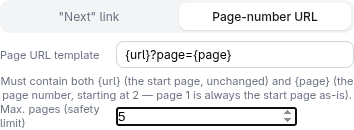
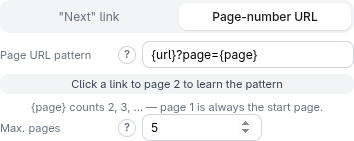
docs(pagination): document the derived page-number pattern, Advanced placement and the {url} rule (#405)

diff --git a/e2e/screenshots/scenarios/pagination.js b/e2e/screenshots/scenarios/pagination.js
@@ -1,5 +1,26 @@
-// Screenshot for docs/user/pagination.md — the Pagination block in Settings.
+// Screenshots for docs/user/pagination.md — the Pagination block in Settings: the
+// proposal learned from a clicked "Next »" link (paginated-listing fixture), and the
+// page-number kind with its pattern filled in.
 module.exports = [
+  {
+    id: 'pagination-suggestion',
+    fixture: 'paginated-listing',
+    async run(s) {
+      const { popupPage, fixturePage } = s;
+      await s.waitForIdle();
+      await s.addFlatField('Title', 'li.item >> nth=0');
+      await popupPage.click('#settings-section-toggle');
+      await popupPage.check('#toggle-pagination');
+      await popupPage.click('#btn-pick-pagination-next-link');
+      await fixturePage.bringToFront();
+      await fixturePage.waitForTimeout(150);
+      await fixturePage.click('a.next');
+      await s.waitForIdle();
+      await popupPage.waitForSelector('#pagination-suggestion:not(.hidden)');
+      await popupPage.locator('#pagination-toggle-row').scrollIntoViewIfNeeded();
+      await s.shot('pagination-suggestion', '#pagination-config');
+    },
+  },
   {
     id: 'pagination-settings',
     fixture: 'speisekarte',

diff --git a/extension/popup/popup.css b/extension/popup/popup.css
@@ -690,6 +690,10 @@ body {
   flex: 1; min-width: 0; border: 1px solid var(--color-border-input); border-radius: var(--radius-md);
   padding: 5px 8px; font-size: 12px; font-family: inherit; outline: none;
 }
+.output-settings-row input[type="number"] {
+  flex: 1 1 60px; min-width: 0; max-width: 120px; border: 1px solid var(--color-border-input); border-radius: var(--radius-md);
+  padding: 5px 8px; font-size: 12px; font-family: inherit; outline: none;
+}
 .output-settings-row input[type="text"]:focus { border-color: var(--color-primary); box-shadow: var(--focus-ring); }
 .output-settings-row textarea {
   flex: 1; min-width: 0; border: 1px solid var(--color-border-input); border-radius: var(--radius-md);

diff --git a/CLAUDE.md b/CLAUDE.md
@@ -77,6 +77,7 @@ docs/
 - **Dark mode + visual modernization pass** (Issue #140): builds directly on #139's token groundwork — every color/overlay/shadow token now lives in a light/dark pair instead of one fixed set. `:root` carries the light defaults; `@media (prefers-color-scheme: dark) { :root:not([data-theme]) { ... } }` redefines them automatically when the OS prefers dark and the user hasn't made an explicit choice; an explicit `html[data-theme="light"|"dark"]` override (see `shared/theme.js` below) always wins over both, and needs no rule of its own for "light" specifically since the media query already stays out of its way when the attribute is present. `color-scheme: light dark` on `:root` (narrowed to a single value by the two explicit-override rules) gives native form controls — checkbox/select-popup chrome, and any `input`/`textarea` with no explicit background of its own, like `#input-additional-urls` — a correct dark rendering for free. **Contrast audit** (called for by the issue): every status color already read from #139's token set, so brightening them for dark backgrounds was enough — no per-rule changes needed for `.robots-txt-allowed`/`.preview-summary.warn`/toast variants/etc. One real bug the audit *did* catch: several "white text on a colored background" rules (`.btn-primary`, `.toast`, picked chips) used `var(--color-surface)` for that text color — correct by coincidence in light mode (surface happens to be white) but flips to near-black in dark mode. A new theme-agnostic `--color-on-accent` token (always a light color regardless of theme, since the accent backgrounds themselves stay readable with light text in both) replaces `--color-surface` at every one of those call sites. **Manual toggle**: a new `extension/shared/theme.js` mirrors `i18n.js`'s `getStoredLanguage`/`setLanguage` pattern exactly (`chrome.storage.local`), with one difference — "follow the OS" is a real third state, represented as `null` (not a storable `'system'` string) throughout the module. `#theme-toggle` next to the language selector cycles system → light → dark → system on click (`SFTheme.cycleTheme`), a single compact icon button chosen over a dropdown for lack of panel-width room next to the existing language `<select>`. **Modernization** (requested alongside the issue, not part of its own scope): the radius scale is nudged up again (6/8/10/14, from #139's 4/6/8/10) for a softer feel; `--transition-fast` switches from a plain linear ease to the "standard" `cubic-bezier(0.4, 0, 0.2, 1)` easing curve; a new `--glow-primary` gives `.btn-primary:hover` a soft colored glow instead of a flat color swap; the old flat `--shadow-sm`/`--shadow-md` pair is replaced by a graded `--elevation-1/2/3` scale (layered shadow pairs) for more "floating" depth on the mode-toggle active pill and modal; the `.mode-toggle`/`.mode-btn` segmented controls (mode/engine/notify-method — three markup instances) gain an animated sliding `.mode-toggle-thumb` behind the active button instead of each button just recoloring itself in place, positioned via `popup.js`'s `syncModeToggleThumbs()` (JS, not CSS-only, since it depends on the active button's actual rendered offset/width) — called at the end of every `render()` and on a rAF-throttled `window.resize` listener, since the side panel is user-resizable; `.engine-section`/`.output-settings` get an outlined "card" (border only, no fill, since their own children already use `--color-surface-subtle`) to break up the idle screen's otherwise undifferentiated list of settings — the mode-specific sections are deliberately left unboxed since they're the primary content being edited and already carry their own row-level visual treatment; every scrollable container from #138/#122 gets a slim `::-webkit-scrollbar` (Chromium-only, matching the extension's own supported browser range). Deliberately out of scope, same reasoning as #139: turning text-label buttons into icon+label.
 - **esbuild bundling; "Load unpacked" points at `extension/dist/`** (Issue #389): the extension is no longer loaded straight from its source folder. `extension/build.js` (`npm run build`, `npm run build:watch`, plus `--channel release` and `--outdir <dir>` for `install/build-bundle.sh`) bundles four entry points — `popup/popup.js` (side panel), `content/content-script.js` (isolated world, every frame; `shared/logger.js` is bundled in, so the manifest no longer lists it), `content/api-capture.js` (the `"world": "MAIN"` recorder, `document_start`) and `background/service-worker.js` — as `iife` for Chromium 114+ into `dist/<same relative path>`, source maps beside them, and copies the static files (`manifest.json`, `popup/popup.html`, `popup/popup.css`, `popup/screens/*.html`) to the same relative paths, so `chrome.runtime.getURL('popup/screens/idle.html')` and the manifest paths are unchanged. `dist/` is git-ignored; Jest, `tsc` and the e2e harness treat it as build output (`modulePathIgnorePatterns`, `exclude`). **What the bundler replaced:** every module used to carry dual-environment boilerplate so the same file ran as a classic `<script>` (shared global scope) and under Jest (CommonJS) — an IIFE assigning one `self.SFXxx` global, a `typeof require !== 'undefined' ? require(...) : self.SFXxx` shim per import, a `typeof module`/`self` export footer, a 56-line `<script>` list in `popup.html`, and `classic-script-loading.test.js` guarding the top-level-name-collision bug class that came with it. All of that is gone: a module is now plain CommonJS (`const { x } = require('./y')`, `module.exports = { ... }`), `popup.html` has one `<script src="popup.js">`, and Jest keeps running the sources directly. No behavior change. **The three explicit replacements for what used to be environment sniffing:** `i18n/i18n.js` `require`s the three dictionaries statically (inlined into the popup bundle, loaded identically in Jest — no fetch, no `chrome.runtime.getURL`); `popup.js`'s `loadScreenPartial` and `content/api-capture.js`'s fetch/XHR patching check `process.env.NODE_ENV === 'test'` (Jest sets it, the build `define`s it to `"production"`, so the code is dead-branch-free in the bundle and `process` never exists at runtime — never reference `process` for anything else). **Release channel** (Issue #352): `shared/build-config.js` derives `CHANNEL` from `process.env.SF_CHANNEL`, which `build.js` always `define`s (`"development"` by default, `"release"` for `--channel release`); `install/build-bundle.sh` builds the release channel into a temp dir (`npm ci` + `node build.js --channel release --outdir …`, then ships the bundle without `.map` files) instead of `sed`-rewriting a source line, and `build.js` fails the build if a release build did not actually produce the release constant. `shared/companion-url-policy.test.js` builds the real module with each channel to prove it. **Consequences for contributors:** after editing extension code run `npm run build` (or leave `build:watch` running) and reload the extension at `chrome://extensions`; there are no page-level globals any more (`self.SFXxx`, `SFTheme`, a popup's `_state`) — a real-browser check that needs to reach into the popup must go through the DOM, `chrome.storage` or Playwright routes, not `page.evaluate(() => SFFoo…)`; a new module needs no `popup.html` edit, just a `require`. TypeScript conversion stays a separate, file-by-file follow-up.
 - **Monitoring / Hardening in plain language** (Issue #399, UX audit finding 4): the Monitoring section is a "set and forget" feature for scripts that run repeatedly and unattended, but nothing said so, the five hardening checks were bare labels, and the Warning/Error toggle was explained only by a hover tooltip in terms of exit codes. **Labels and help only — no change to the wire format or the generated scripts** (the wire severities stay `Warning`/`Error`; only what the buttons say changed). A one-sentence **intro** (`idle.monitoringIntro`: only useful if you run the script again and again, e.g. every night); a **"Checks after every run"** heading whose "?" (`help.hardening.severity`) explains severity in plain words — **"Warn me"** (the run finishes, a message is printed) vs. **"Stop the run"** (marked as failed so a scheduler/monitor notices; exit code 2, an unexpected crash is 1) — which replaces the four hover-only `…SeverityWarning/ErrorTitle` tooltips (removed, as is the `title` attribute; the dynamic null-rate row never had one); a **"?" popover per check** (`help.hardening.noResult|nullRate|baseline|blocking|requiredFields`, one sentence of purpose plus an example) on the check's own toggle/heading; **thresholds as sentences** — "Trigger if there are [20] % fewer rows than in the last run" (static, `.hardening-sentence`) and, in each dynamic null-rate row, "[Preis ▾] is empty in more than [50] % of the rows" (`idle.hardeningNullRateMiddle/After`; the row now wraps), with the existing defaults (20 % / 50 %) unchanged; the blocking check's two rarely needed signals (**min. response length** as "Page shorter than [ ] bytes (optional)" and **block phrases**) sit under an **Advanced** disclosure (`<details data-advanced="hardening-blocking">`, the #396 component, collapsed by default and remembered) with one popover (`help.hardening.blockingAdvanced`: "1000 bytes is about one paragraph", phrases such as "Access Denied"); the blocking toggle reads "Check whether the site blocks the script". **"Recommended checks"**: `popup/hardening-presets.js` (pure, `@ts-check`) `applyRecommendedHardening(hardening, fieldNames)` → `{ hardening, applied, needsFields }` switches on **"empty result" as "Warn me"** and **"required field" for the FIRST field only, as "Warn me"** — the required-fields check *drops rows* from the output, so it is only suggested for the first field (usually the name/ID that makes a row meaningful), never for all of them (that would silently drop rows whose optional fields are legitimately empty); it **only ever adds** — a check already on, or fields already listed for "required", are left exactly as they are, so a second click changes nothing — and without fields only "empty result" is set and the note says why the rest is missing. Wired in `settings-panel-ui.js` (`#btn-hardening-recommended`, a note `#hardening-recommended-note` saying what was switched on; the button has its own "?" `help.hardening.recommended`); the baseline-drop check was deliberately *not* added to the preset (the issue names "empty result" + required fields). Covered by `hardening-presets.test.js` (the preset incl. the resulting wire checks through `buildHardeningConfig`), `hardening-presets-ui.test.js` (the button, the note, the labels, sentences and the Advanced disclosure against the real `idle.html`) and `e2e/examples/issue-399-hardening-plain-language-check.js` (intro/heading/severity wording, one popover per check with an example, the preset, **the real `/generate` request captured from the network carries exactly `noResult` + `requiredFields[first field]` as warnings**, Advanced collapsed, de/es, 280/320/400 px).
+- **Pagination helpers: derived page-number template, Advanced placement** (Issue #405, UX audit finding 10): the "Page-number URL" kind needed a template with `{url}`/`{page}` and so knowledge of how the site's page URLs look; the "next link" selector had a picker but also a typed field; "Discover additional start URLs" asked for a URL and a selector for a feature most users never need. **Pure derivation** (`popup/pagination-template.js`, `@ts-check`): `detectPageTemplate({ currentUrl, linkHref })` → `{ template, style, usesStartUrl, example }` or `null`. With a clicked link's resolved href (`resolveLinkHref`) the pattern is learned from how it differs from the start URL — **query style**: the one parameter that is the next number (2 when the start URL has none, but then only a conventional name: `page`/`p`/`pg`/`paged`/`pagenum`/`pagenumber`/`pageno`/`seite`/`pagina`/`currentpage`, so `?cat=2` is not page 2; already present → its number + 1) while every other query parameter is identical → `{url}?page={page}` / `{url}&page={page}`, or the start URL with the number replaced by `{page}` when it already has one; **path style**: `/page/2/`, `/seite/2`, `/pagina/2`, `/p/2` appended to the start path (`{url}page/{page}/`) or replacing the start URL's own number. Without a link (or a link that shows nothing) only a **start URL that already says page 1** is recognised (`?page=1`, `/page/1/`; `page=2` or `0` is not — pages 2.. would be wrong). Deliberately conservative: zero-based counters, offsets, several plausible parameters, another host/path, a `#fragment` in the way → `null`, never a guess. The proposal is only ever **applied by a button**, and `proposalAlreadyApplied` keeps the banner away once it is. **`{url}` is now optional in the companion** (`ScrapingPlanValidator.ValidatePageNumberUrlTemplate(urlTemplate, singleStartPage)`, the one companion change; wire format and generated scripts unchanged — the script's `.format(url=…, page=…)` already tolerated it): a start URL that already carries `?page=1` can't be expressed with `{url}` (the page number can't be overridden by appending), so `https://site/list?page={page}` is valid for a **single start page** — but with **several** (`Url` + `AdditionalUrls`, or `DiscoveredUrls`) `{url}` stays required, since a template without it would request the same page N for every start page; the extension mirrors the rule (`currentProposal` in `pagination-ui.js` drops a proposal without `{url}` while additional start URLs exist or discovery is on). **UI** (`popup/pagination-ui.js`, called from `idle-screen-ui.js`/`popup.js`): a proposal **banner** above the kind toggle (`#pagination-suggestion`: "Looks like page numbers are in the URL. Use this pattern?", the template, the example for page 2, **Use this pattern** → kind `pageNumber` + template); the link's address is stored as UI-only `pagination.linkHref` inside the pagination draft (persisted with it, never sent — `buildPaginationConfig` ignores it, asserted by a test), fed by **two pickers**: the existing "next link" pick (`message.attributes.href` — message-router and session-restore both fill it) and the new `selectionKind: 'paginationPageLink'` ("Click a link to page 2 to learn the pattern", stores only the address, warns with `toast.paginationNotALink` for an element without an `href`; `resolveLinkHref('')` is `''`, not the page itself). The "next" link's **typed selector** is an editable detail under a remembered **Advanced** (`pagination-next-link`) with the picked selector shown as a chip; the URL pattern and **Max. pages** get "?" popovers (`help.pagination.urlTemplate`/`maxPages`: what `{page}`/`{url}` are, page 1 is the start page, `{url}` required with several start pages / the safety limit and its earlier stops), replacing the long hint paragraph. **"Discover additional start URLs"** moved, whole, under **Advanced: find start pages automatically** (`#discovered-urls-advanced`, `data-advanced="discovered-urls"`, hidden for API/Combined/Blocks, opened once when the option is already on so a returning user's setting is never tucked away), keeping its pickers, with a one-sentence hint and a popover (`help.discoveredUrls.overview`). `.output-settings-row input[type="number"]` got a width cap (the rows' own number inputs had none and overflowed a 280 px panel once a help host sat in the row). Covered by `pagination-template.test.js` (~40 cases across URL shapes, the round trip through `buildPaginationConfig`), `pagination-ui.test.js` (banner, use, both pickers, the several-start-pages rule, Advanced placement, session restore), .NET `ScrapingPlanValidatorTests` + `PaginationEndToEndTests` (a template without `{url}` through a real run) and `e2e/examples/issue-405-pagination-helpers-check.js` (the new `test-pages/paginated-listing` fixture with `?page=N` and `/blog/page/N/` lists: **real Generate runs scraping all nine items for each of the three start shapes**, popovers, Advanced, de, 280/320/400 px). Found on the way, **not fixed here**: the service worker stores every pick as `pendingSelector` for a closed panel and that write can land *after* the open panel's own `remove('pendingSelector')` (message-router), so a later popup reload occasionally pops a stale field modal — the check clears it before reloading.
 - **Login flow and browser actions in plain language** (Issue #403, UX audit finding 8): a login is built from the generic WaitFor/Fill/Click/Scroll actions, with no explanation of what it consists of and fields mixing units and concepts. **Labels, a starter and help only — the wire format and the generated scripts are unchanged.** **Overview**: the "Browser actions" title carries a "?" (`help.browserActions.overview`: a login is fill user name → fill password → click the button → wait until the signed-in page appears; steps run in order, before data is read), and the intro line points at the starter. **"Login form (4 steps)" starter** (`#btn-add-login-flow`, pure `popup/login-flow.js` `addLoginFlow`, rendered by `browser-actions-ui.js`): *appends* (never replaces) Fill (user name, `SITE_USERNAME`), Fill (password, `SITE_PASSWORD` — the #397 naming), Click (login button) and WaitFor (until logged in, **10 s** instead of the generic 5 s since login pages are slow); a second click gets `…_2` variable names (`uniqueEnvName`) so two actions never read the same variable. Each starter action carries a **UI-only `role`** (`user`/`password`/`submit`/`loggedIn`, `SFDraft.BrowserActionRole`): its card is titled "Fill in the user name"/"Click the login button"/…, the pick button says what to pick ("Select the user name field"), the env-var and test-value labels name the user name/password — and `serializeBrowserActions` picks the wire fields per kind, so **a role never reaches the request body** (a Jest test asserts the exact wire list; `config-import.js` restores no role, a loaded login shows the plain kind labels). `#login-flow-hint` ("Now click the four elements…") shows while any starter action still lacks its element. **Plain units**: times are typed in **seconds** and stored/sent as milliseconds (`msToSecondsText`/`secondsTextToMs` in `login-flow.js`: `0.25` ↔ 250 ms, a decimal comma works in the helper — a `type=number` input takes the browser's own decimal separator —, junk/negative/zero-where-impossible falls back to the old default, `allowZero` for pauses), with the default as placeholder: "Wait at most (seconds)", "Pause after each round/click (seconds)"; the BrowserDiscoverySource action editor in `api-config-ui.js` (Issue #216) shares the labels and was converted the same way, the old `timeoutLabel`/`waitAfterMsLabel` keys are gone. "Max. rounds" has a "?" (`help.browserActions.maxRounds`: how many times to scroll/click "Load more" before stopping). **Advanced** (the #396 component, one remembered section per kind: `browser-action-click`, `browser-action-scroll`): a Click's target (first/last/all) and its pause, a Scroll's container, "Load more" button and scroll step (now "pixels"); rounds and the pause stay visible. `createAdvancedDisclosure` now applies the remembered open state **synchronously** at creation, because a card built by a re-render must not collapse and reopen (the `toggle` event is async: a re-render within the same frame as the click can still lose the very first open — not reachable by a human). **Persistent session**: the visible hint is one sentence plus the **cookie warning** ("…the saved session file holds live cookies — treat it like a password"); the rest (never share/commit, expiry fails the run, delete the file to log in again) moved into `help.browserActions.persistentSession`. Small CSS fix found on the way: `.browser-action-field-row select` could overflow a 280 px panel (the click-target `<select>`). Covered by `login-flow.test.js` (starter, unique names, wire equality, seconds↔ms, the wired-up popup: four role-named cards, the hint, a real `/generate` body, Advanced contents), the adapted `browser-actions-ui.test.js`/`click-target.test.js`, and `e2e/examples/issue-403-login-starter-check.js` (fixture `login-flow`: the starter, picking the four elements on the page, a **real Generate that logs in with the typed test values and scrapes the dashboard balance**, Advanced collapsed, de, 280/320/400 px); the #267 check was adapted to open "Advanced" and use seconds.
 - **Custom request headers: a picker instead of an empty row** (Issue #402, UX audit finding 7): "Send custom request headers" used to open a free-text header-name field, a fixed-value/environment-variable switch and a hint wall — a non-developer had to already know `Accept-Language`, `Referer` or `X-Api-Key` exist, and that a secret must not be a fixed value. Now an **"Add a header…" `<select>`** (`#select-add-request-header`, replaces the `+ Header` button) offers the common headers and **"Other header (type the name)…"**; picking one appends a **complete** row. **Wire format untouched** — a row is still `{ name, kind, value }`, `buildRequestHeadersConfig` emits the same `{name, value}` / `{name, environmentVariableName}` list, and a Jest test asserts a picked preset and the same hand-typed header produce identical wire output. `popup/request-header-presets.js` (pure, `@ts-check`): `REQUEST_HEADER_PRESETS` — Accept-Language, Referer, User-Agent (fixed value, with an example value prefilled so the row is valid at once) and Cookie (`SITE_COOKIE`), Authorization (`AUTH_TOKEN`), X-Api-Key (`API_KEY`) (**secrets default to an environment variable** with a suggested valid variable name) —, `OTHER_PRESET_ID`, `presetById`/`presetForName` (case-insensitive: a hand-typed `accept-language` still gets its description), `rowFromPreset`, `isSecretHeaderName` (the exact well-known names plus anything containing token/secret/passw/auth/api-key or ending in `-key`, so a custom `X-Auth-Token` is treated like `Authorization`) and `suggestHeaderEnvName` (`X-Auth-Token` → `X_AUTH_TOKEN`, a preset keeps its own, a leading digit is prefixed `HEADER_`); `request-headers.js` gains `appendHeaderRow(state, row)`. **UI** (`request-headers-ui.js`): enabling the section no longer adds an empty row — the picker is the way in (the picker's "?" is `help.requestHeaders.picker`, reusing the shared help component; `help.requestHeaders.headers` and the shared `help.envVar.what` note are unchanged). A picked header shows its **description under the row** (`requestHeaderPresets.<id>.desc`, plain language, e.g. "Asks the site for its pages in this language…"), and a **credential-looking header held as a fixed value** shows a **warning** — "This looks like a secret. As a fixed value it would be written into the script in plain text." — with a **"Use environment variable"** button that switches the row to an environment variable and fills a suggested name. The warning never blocks anything (the user may have a reason). Both notes live in one `.request-header-notes` container per row that `syncRow` refreshes in place (compared by a `dataset.signature`), so renaming a header never rebuilds the row or steals the focus (the #226 regression); the picker's options are rebuilt only when their labels or the set of already-used headers change, and **a header already in the list is disabled in the picker** (the companion rejects the same header twice). Header names are matched, never forced: the name stays freely editable in the row. i18n: `requestHeaderPresets.*` (label + desc per preset, `other.label`) plus `idle.requestHeaderPickerPlaceholder/SecretWarning/SwitchToEnv` in de/en/es; the unused `idle.requestHeadersAddBtn` is gone. Covered by `request-header-presets.test.js` (preset logic, the secret heuristic, wire equality, and the wired-up popup: picker contents, complete rows, env-var default, used header disabled, warning + one-click fix, renaming keeping the inputs), the adapted `request-headers.test.js`, and `e2e/examples/issue-402-request-headers-picker-check.js` (fixture `request-headers`: the picker end to end incl. a **real run that sends the picked headers**, the warning and its fix, the "?" popover, de, 280/320/400 px; the older #226/#396/#397/#401 checks were adapted to pick a row instead of expecting an empty one).
 - **Pattern helper for "Regex extract" and format guess for "Convert to date"** (Issue #400, UX audit findings 5 and 12): nearly every price/number/ID field needs a regular expression and non-programmers can't write one; the date format mini-template (`{dd}.{mm}.{yyyy}`) is just as foreign. Both transform kinds keep their live preview (Issue #143) but now get helpers that lead to a *working* value. `popup/transform-helpers.js` (pure, `@ts-check`): **recipes** — `RECIPES`, `buildRecipe(id, args)` → `{ pattern, group }` (null while the text(s) it asks for are missing), `previewRecipe(raw, recipe)` (through the editor's own `applyTransformsPreview`, so the helper and the live preview can never disagree), `escapeRegexLiteral` (every metacharacter of the user's text is escaped, so `.` `(` `$` `+` `|` `\` are literal). Recipes: *First number* `-?\d+(?:[.,]\d+)*` (group 0), *First run of digits* `\d+` (0) — the issue's "All digits" is read as "the first run of digits", since a Regex-extract step yields one piece and "all digits joined" would be a find/replace —, *Text after …* `<a>\s*(.+)` (1), *Text before …* `(.+?)\s*<a>` (1), *Text between … and …* `<a>\s*(.+?)\s*<b>` (1), *Text inside brackets* (a choice of `( ) [ ] { } < >`) `\(([^)]*)\)` etc. (1). **Only constructs .NET's `Regex` (the companion's validation) and Python's `re` (the script) read identically** — groups, `\d`, `\s`, `[^…]`, lazy `+?`; no look-behind, no named groups, no inline flags (a Jest test asserts it). That is *proven*, not assumed: `transform-helpers.test.js` runs the same ~40-case table through the preview **and through `python3` `re.search`** (skipped when Python isn't installed), and `RegexRecipeEndToEndTests.cs` takes representative generated patterns through `ScrapingPlanValidator` (.NET) and a real generated script (Python). **Date inference**: `inferDateFormat(raw)` → `{ format, alternatives }` or `null` — `28.08.2026`, `1.9.2026`, `2026-08-28`, `2026/8/5`, `28-08-2026`, `08/28/2026`, `20260828`; day/month order is decided by values above 12, dotted dates are day-first, and a genuinely ambiguous `03/04/2026` defaults to day-first and lists the other reading; every guess is re-checked with `toDatePreview`, so a guess always converts the value. **Month names (`28 Aug 2026`) are not supported** — the format has no month-name token and adding one would change the runtime helper and the companion's validation (outside this issue); a date with text around it gets no guess. **UI** (`transform-helpers-ui.js`, called from `field-transforms-ui.js`, so all three modes' transform modals get it): a Regex-extract row gets a *Pattern helper* button and a "?" popover (`help.transforms.regex`); the button opens a panel (`li.transform-helper-panel`, right under the row) with a recipe select, only the text input(s) that recipe needs, a **live result on the real picked value** and *Use this pattern*, which writes pattern + group into the transform exactly as if typed. The panel is **stateless as far as the transform is concerned** — recipe and texts live only in its DOM, the transform objects (sent to the companion as they are) never carry helper state, and typing in the panel never re-renders the list (it would steal the focus). A "Convert to date" row gets a "?" popover (`help.transforms.dateFormat`) and, on selecting that kind, **the guessed format is pre-selected**, with a hint line ("Format detected from your value: …" / "(could also be …)" / "Your value looks like …" / a no-guess example). The helpers read the picked value **lazily** through a `getRawValue` getter now passed to `renderTransformList`/`wireTransformList` (flat: `resolveFlatRawValue`, container: `resolveExtendedRawValue` — the previously inline preview logic, now shared —, API: `pendingRawText`). Plain labels: the pattern input's placeholder is "Pattern (advanced)", the group input's "Part to keep (0 = whole match)". `help-popover-ui.js` now creates a help panel as an `<li>` when its anchor sits in a `<ul>`/`<ol>`. Covered by `transform-helpers.test.js`, `transform-helpers-ui.test.js` (panel open/close, per-recipe inputs, live result, `Use`, metacharacters, several rows, the date pre-selection and hints) and `e2e/examples/issue-400-transform-helpers-check.js` (the new `test-pages/transform-helpers` fixture: a price via two chained recipes, an article number with a literal dot, a date whose format is guessed, a **real Generate** whose data preview holds `12,99 / 4711 / 2026-08-28`, the popovers, de/es, 280/320/400 px).

diff --git a/docs/user/pagination.md b/docs/user/pagination.md
@@ -8,31 +8,50 @@ Turn on **Enable pagination** and choose how the next page is found.
 
 ## "Next" link
 
-Pick the "next page" link by clicking it, or type a CSS selector such as
-`a.next`. The script follows that link's address page after page, until the
-link is gone, a page yields no results, or **Max. pages (safety limit)** is
-reached.
+Click **Select the "Next" link**, then click the "next page" link on the page. The
+script follows that link's address page after page, until the link is gone, a page
+yields no results, or **Max. pages** is reached. (The CSS selector the click produced
+is an editable detail under **Advanced**.)
 
 ## Page-number URL
 
-If page numbers appear in the address, give a **Page URL template** with two
-placeholders:
+If page numbers appear in the address, the script can build the address of page 2, 3, …
+from a **Page URL pattern**. You don't have to know how the site writes it: the
+extension **proposes a pattern** when it can learn it from
 
-- `{url}` — the start URL, unchanged
-- `{page}` — the page number, starting at **2**
+- the **"Next" link** you picked (it looks at where that link goes),
+- a link to **page 2** you click with **Click a link to page 2 to learn the pattern**, or
+- the start URL itself, when it already says page 1 (`?page=1`, `/page/1/`).
 
-For example `{url}?page={page}`:
+![A proposed page-number pattern, learned from the clicked "Next" link](images/pagination-suggestion.png)
+
+**Use this pattern** switches to **Page-number URL** and fills the pattern in; nothing is
+applied until you click it. Examples it recognises: `?page=2`, `&p=2`, `?seite=2`,
+`/page/2/`, `/seite/2`. Anything unclear (page numbers that start at 0, offsets, several
+candidate parameters) gets no proposal rather than a guess.
+
+You can also write the pattern yourself. It has up to two placeholders (the **?** next to
+the field explains them):
+
+- `{page}` — the page number, starting at **2** (page 1 is always the start page)
+- `{url}` — the start URL, unchanged (optional)
+
+For example `{url}?page={page}`, or, for a start URL that already says `?page=1`,
+`https://example.com/list?page={page}`. With **several start pages** (additional or
+discovered start URLs) `{url}` is required, so each start page is paginated on its own;
+the extension then only proposes patterns that contain it.
 
 ![Page-number pagination settings](images/pagination-settings.png)
 
-> **Try it yourself.** The fixture used here is a static page, so it only shows
-> the settings; point it at a real paginated list to see several pages scraped.
-> `python3 -m http.server 8504 --bind 127.0.0.1 --directory test-pages/speisekarte`
+> **Try it yourself.** `python3 test-pages/paginated-listing/server.py` serves two lists
+> of three pages (`http://127.0.0.1:8512/` with `?page=N` and `/blog/` with `/page/N/`)
+> with a "Next »" link on each page.
 
 ## Good to know
 
-- **Max. pages** is always active (default 50). It protects against a link that
-  never runs out.
+- **Max. pages** is a safety limit, always active (default 50): the script stops after
+  that many pages even if there are more, and earlier as soon as a page has no results
+  or the "Next" link is gone. It protects against a list that never runs out.
 - It works with both engines and with several start URLs: each start URL is
   paginated on its own.
 - It is for classic page-by-page navigation. For infinite scroll or "load more"
@@ -41,4 +60,6 @@ For example `{url}?page={page}`:
   parameter ([API mode](modes.md#api)).
 - **Additional start URLs** (a text box under the page address) lets you scrape
   several fixed pages in one run. **Discover additional start URLs
-  automatically** harvests links from a navigation page for you instead.
+  automatically** (under **Advanced: find start pages automatically**) harvests links
+  from a navigation page for you instead: pick one link in the menu and every similar
+  link becomes a start page.

diff --git a/docs/ARCHITECTURE.md b/docs/ARCHITECTURE.md
@@ -649,6 +649,24 @@ CLAUDE.md for the details.
 - Tests: `popup/hardening-presets.test.js`, `popup/hardening-presets-ui.test.js`,
   real-browser check `e2e/examples/issue-399-hardening-plain-language-check.js`
 
+### 2.10i Pagination helpers (Issue #405)
+
+A page-number URL template proposed from a clicked "next"/"page 2" link or a start URL
+that already says page 1, the typed "next" selector and the whole "Discover start URLs"
+option under "Advanced", and "?" popovers for the pattern and the max-pages limit. The
+companion's page-number template now needs only `{page}` for a single start page. See
+CLAUDE.md for the details.
+
+- Extension: `popup/pagination-template.js` (pure derivation), `popup/pagination-ui.js`
+  (banner, pickers, Advanced placement), `popup/message-router.js`/`session-restore.js`
+  (the clicked link's address), `popup/screens/idle.html`, `idle.pagination*`/
+  `help.pagination.*`/`help.discoveredUrls.*` in `i18n/*.json`
+- Companion: `IR/ScrapingPlanValidator.cs` (`ValidatePageNumberUrlTemplate`),
+  `IR/PaginationConfig.cs` (doc comment)
+- Tests: `popup/pagination-template.test.js`, `popup/pagination-ui.test.js`,
+  `ScrapingPlanValidatorTests`, `PaginationEndToEndTests`, fixture
+  `test-pages/paginated-listing` + `e2e/examples/issue-405-pagination-helpers-check.js`
+
 ### 2.10h Login flow guidance for the browser actions (Issue #403)
 
 A "Login form (4 steps)" starter, role-named cards, times in seconds, an overview and
